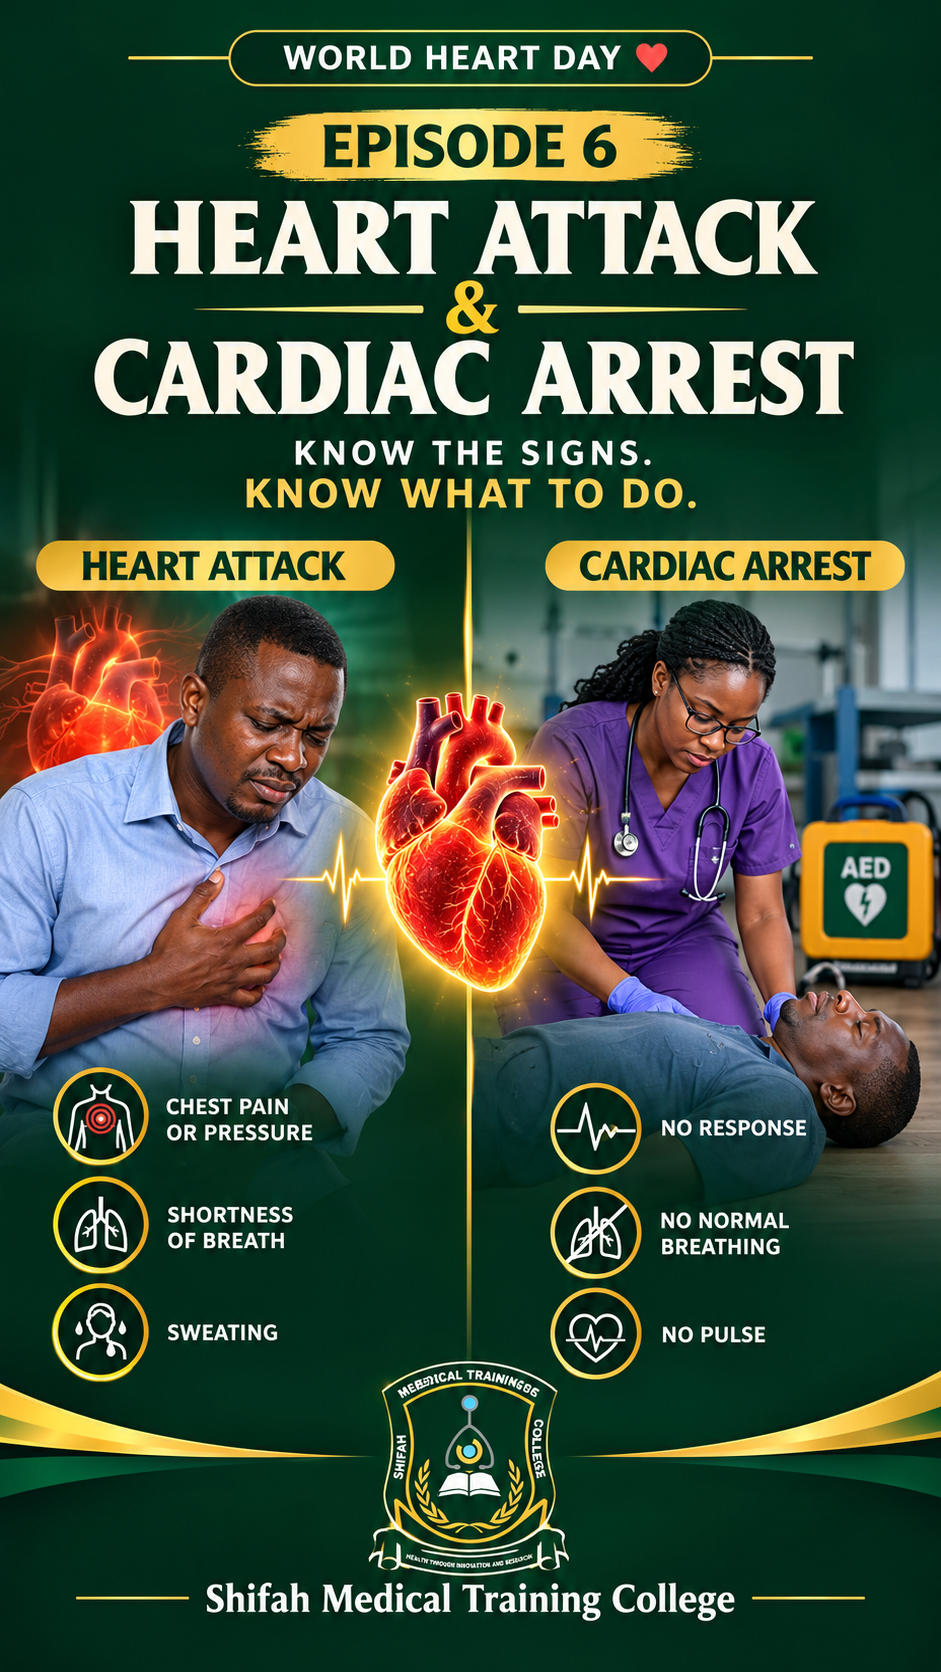
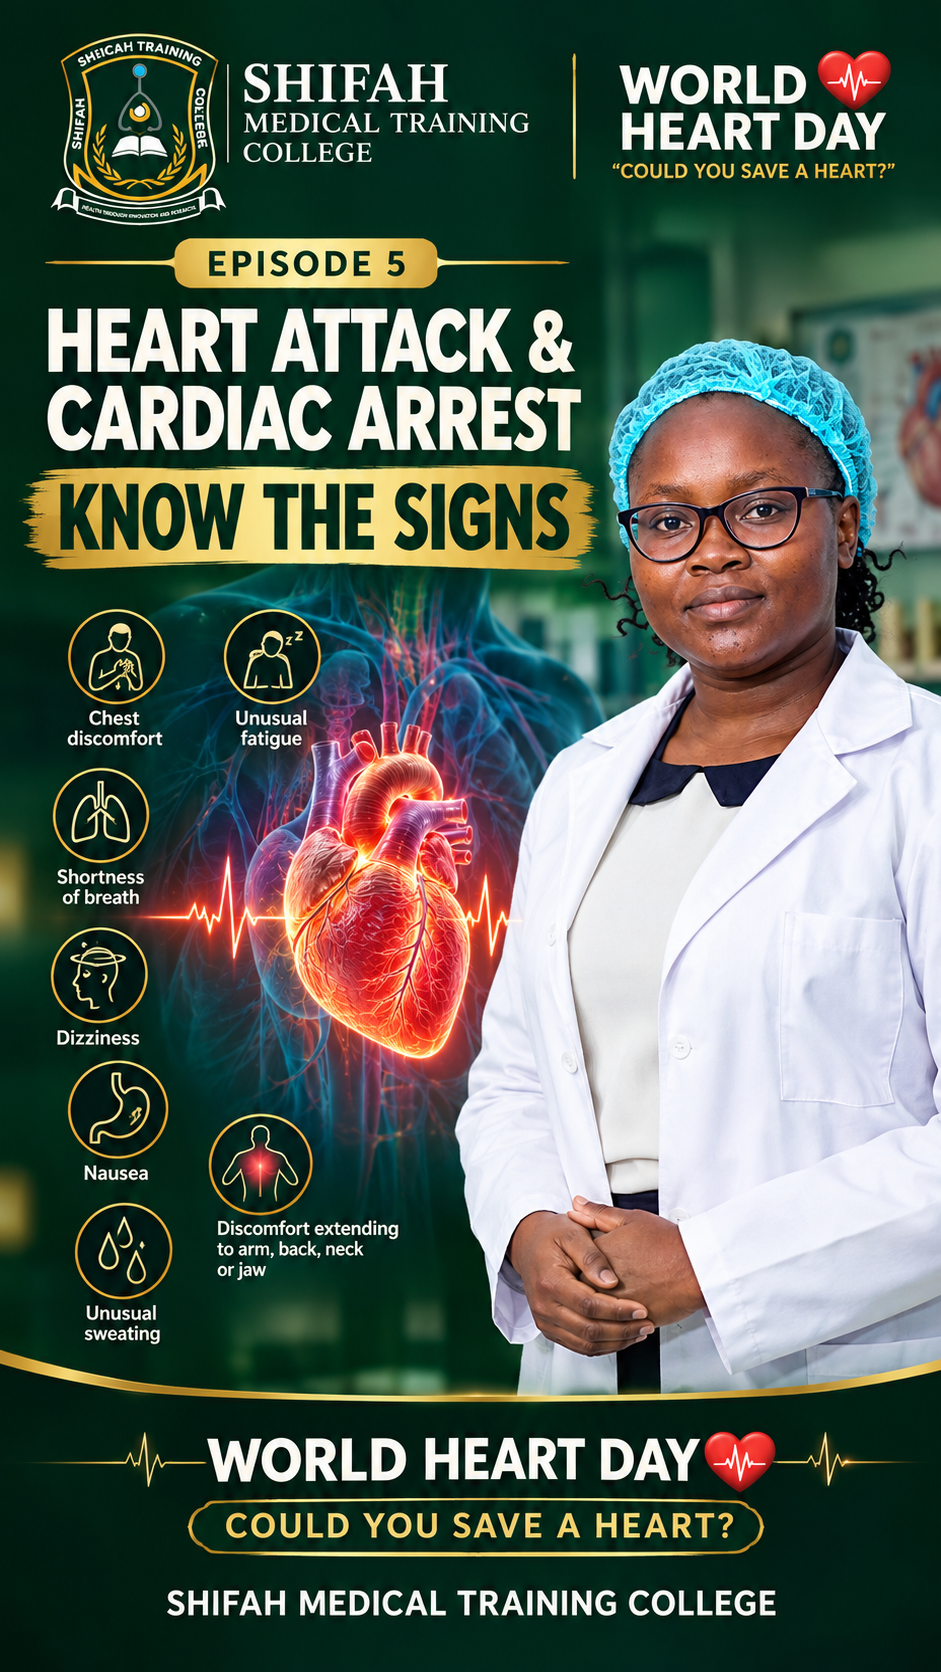
UPDATED WORLD HEART DAY

diff --git a/app/world-heart-day/HeartDayEpisodes.tsx b/app/world-heart-day/HeartDayEpisodes.tsx
@@ -57,8 +57,8 @@ const episodes: Episode[] = [
     'Heart attack and cardiac arrest are not the same emergency. In Episode 5, learn the warning signs of a heart attack, recognize cardiac arrest and understand why knowing the difference can help you respond quickly when every second matters.',
 
   image: '/images/episode-5.png',
-  status: 'COMING SOON',
-  tiktokUrl: 'YOUR_EPISODE_5_TIKTOK_URL',
+  status: 'LIVE',
+  tiktokUrl: 'https://vt.tiktok.com/ZSbMgN9vu/',
 },
 
 {
